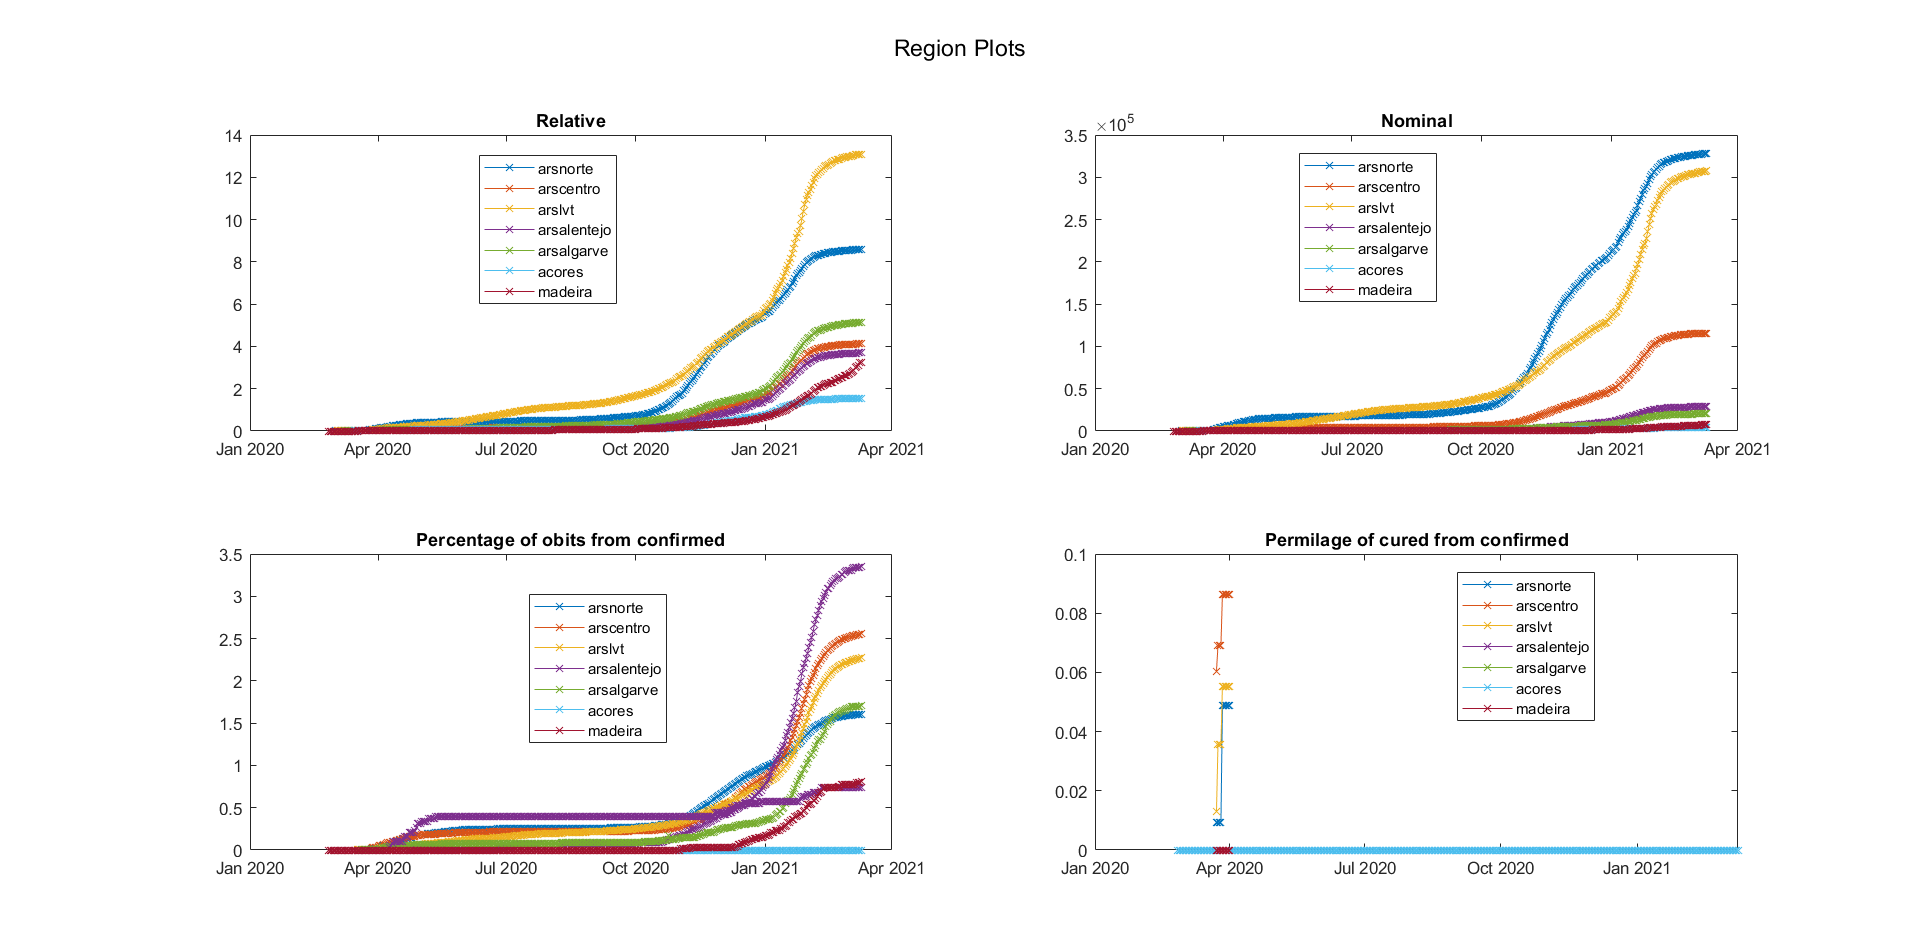
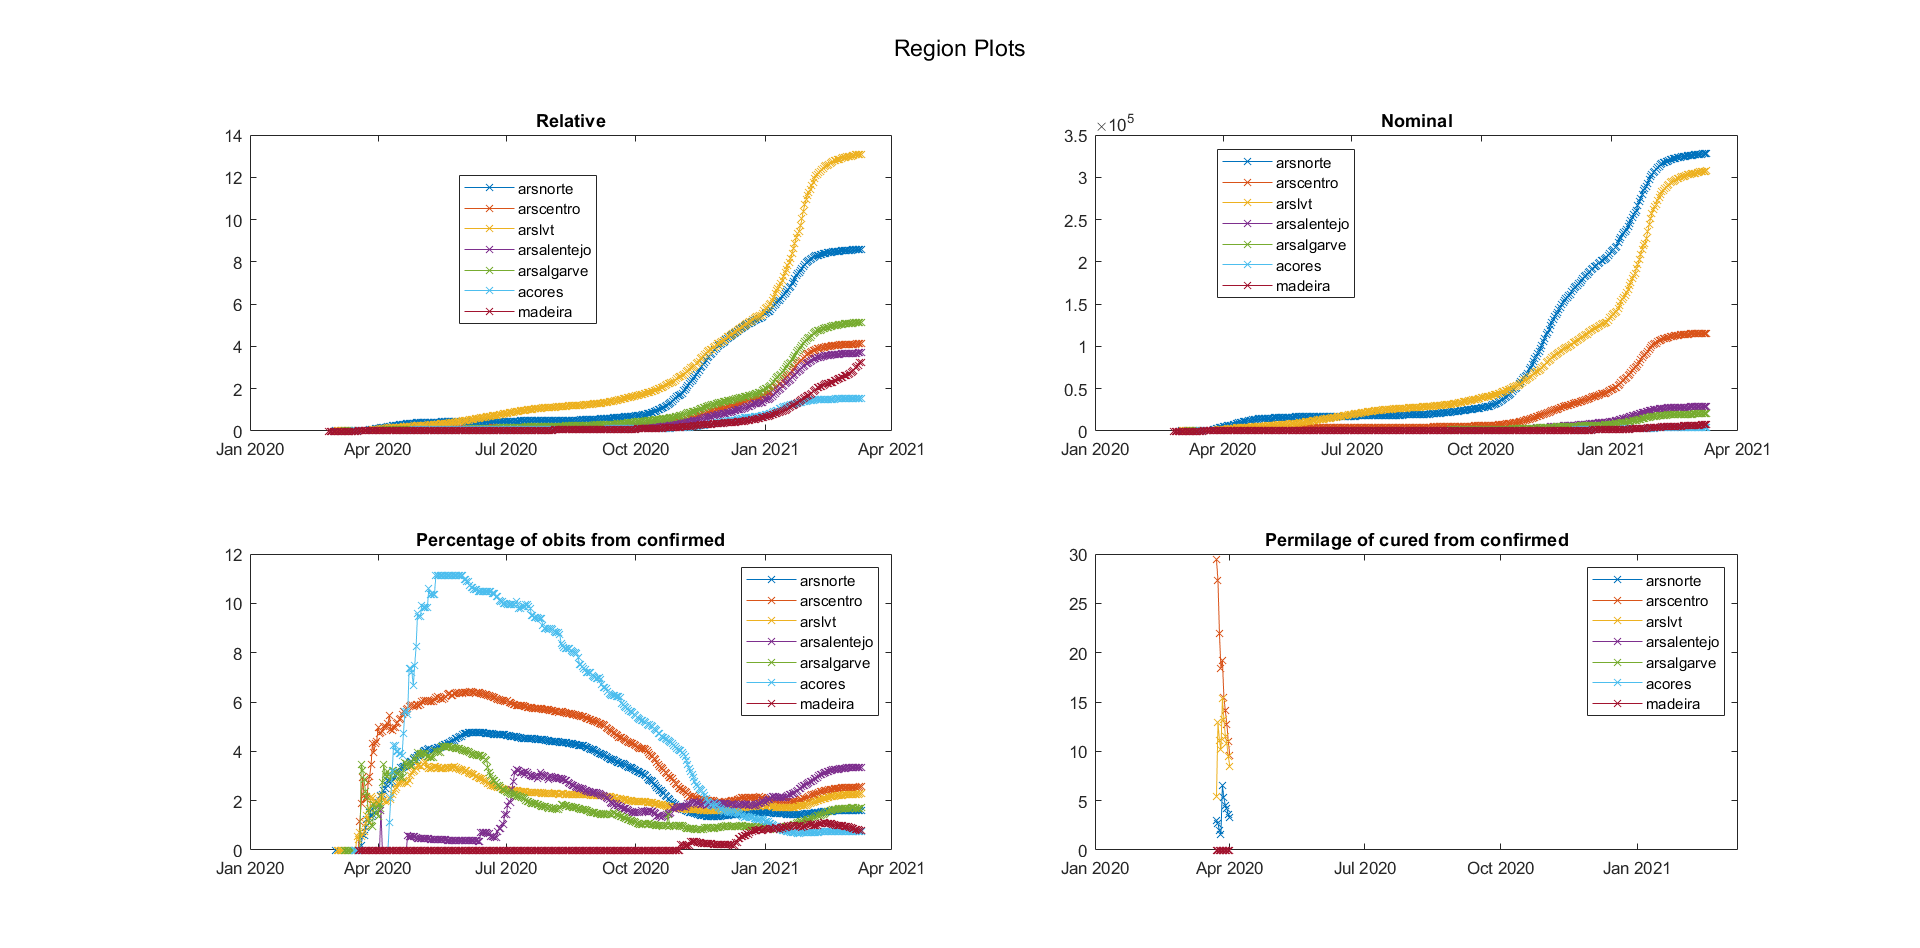
Update Images, elemental-division correction

diff --git a/matlab.m b/matlab.m
@@ -21,7 +21,7 @@ columns = Table.Properties.VariableNames;
 figs = []
 %% Region Plots
 figNo = 1;
-%RegionPlots(Table, POP, columns, figNo);
+RegionPlots(Table, POP, columns, figNo);
 figs = [figs, gcf]
 
 %% Sex Plots
